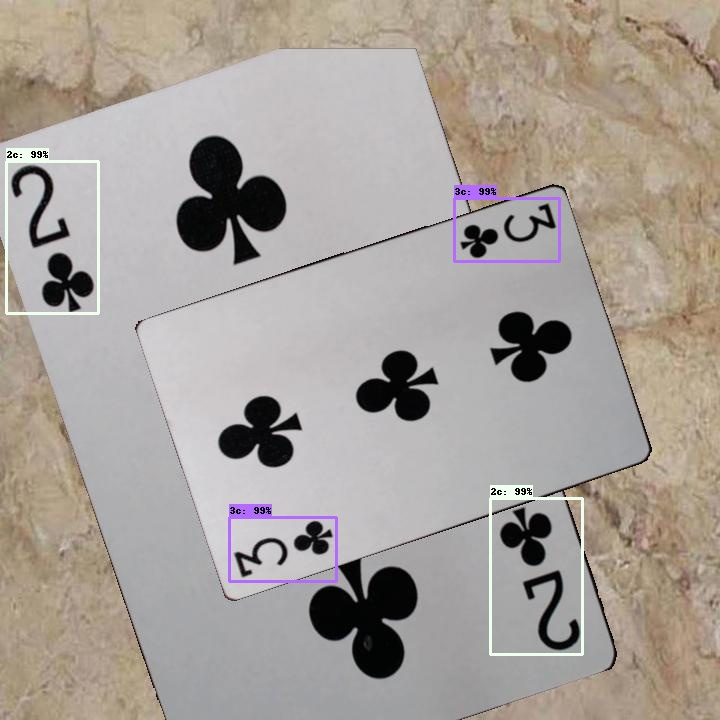
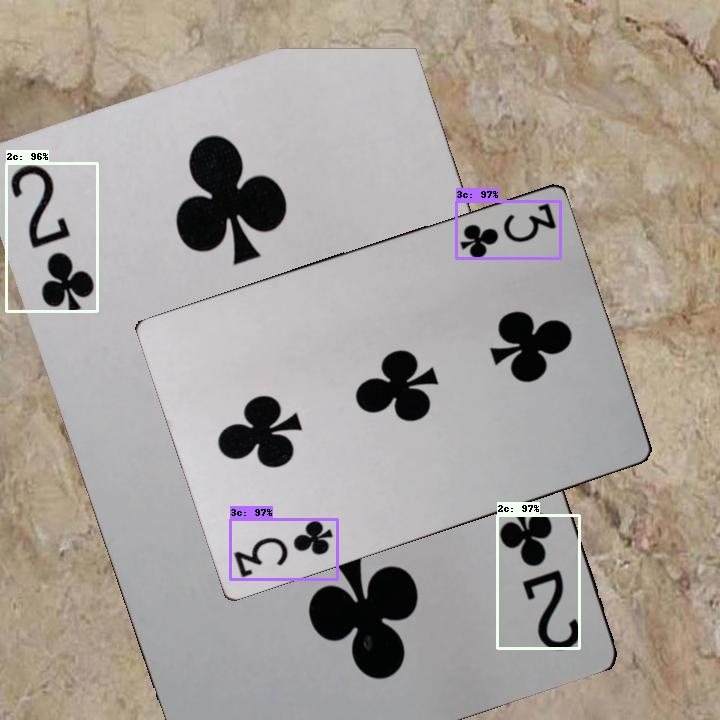
feat: fix error inder prediction script

diff --git a/lib/prediction/predict.py b/lib/prediction/predict.py
@@ -20,7 +20,9 @@ def hide_tensorflow_logs(): os.environ['TF_CPP_MIN_LOG_LEVEL'] = '3'
 
 def create_reader(params):
     if 'input_image' in params:
-        return ImageReader(params['input_image'].split(','))
+        return ImageReader([params['input_image']])
+    elif 'input_video' in params:
+        return VideoReader(params['input_video'])
     elif 'input_webcam' in params:
         video_port = assert_video_port_availability(params['input_webcam'])
         return VideoReader(video_port)
@@ -34,8 +36,9 @@ def create_writer(params):
 
 
 def show(frame, scale_percent=200):
-    if type(writer) is VideoWriter:
-        cv2.imshow('Object detection', frame.scale(scale_percent))
+    if params['input_webcam']:
+        scaled_frame = frame.scale(scale_percent)
+        cv2.imshow('Object detection', scaled_frame.raw)
 
 
 def create_model(params):

diff --git a/lib/prediction/input_params.py b/lib/prediction/input_params.py
@@ -17,9 +17,12 @@ class InputParamsResolver:
         parser = argparse.ArgumentParser(prog="object-detection-predictor", description='Object detection predictor')
         parser.add_argument('--model-path', help='Path of final model graph')
         parser.add_argument('--label-map-path', help='Path of label map file')
-        parser.add_argument('--input-image', help='Path of an image file.')
-        parser.add_argument('--output', help='Path of an output file.')
+
+        parser.add_argument('--input-image', help='Input image path.')
+        parser.add_argument('--input-video', help='Input video path.')
         parser.add_argument('--input-webcam', help=self.__input_webcam_info(), type=int, default=0)
+
+        parser.add_argument('--output', help='Output image/video path.')
         self.__parser = parser
 
     @staticmethod

diff --git a/lib/stream/image_frame.py b/lib/stream/image_frame.py
@@ -10,7 +10,7 @@ class ImageFrame:
         self.height = height
         self.size = (round(self.width), round(self.height))
         self.path = path
-        self.filename = ntpath.basename(self.path)
+        self.filename = None if self.path is None else ntpath.basename(self.path)
 
     def __str__(self):
         return f'Frame size: {self.size}, path: {self.path}'

diff --git a/lib/prediction/model.py b/lib/prediction/model.py
@@ -66,7 +66,7 @@ class Model:
             np.squeeze(scores),
             self.__category_index,
             use_normalized_coordinates=True,
-            line_thickness=3,
-            max_boxes_to_draw=30,
-            min_score_thresh=.2
+            line_thickness=1,
+            max_boxes_to_draw=50,
+            min_score_thresh=.25
         )

diff --git a/README.md b/README.md
@@ -5,9 +5,9 @@
 
     ```bash
     bin/predictor \
-        --model-path models/inference_graph_106421/frozen_inference_graph.pb \
+        --model-path models/inference_graph_16232/frozen_inference_graph.pb \
         --label-map-path dataset/label_map.pbtxt \
-        --input-image input/never_seen_sample_1.jpg \
+        --input-image ./input/never_seen_sample_4.jpg \
         --output ./output
     ```
 
@@ -15,7 +15,7 @@
 
     ```bash
     bin/predictor \
-        --model-path models/inference_graph_106421/frozen_inference_graph.pb \
+        --model-path models/inference_graph_16232/frozen_inference_graph.pb \
         --label-map-path dataset/label_map.pbtxt \
         --input-webcam 2 \
         --output ./output/video.mp4
